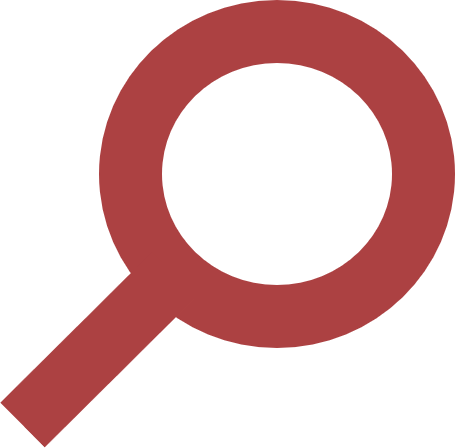
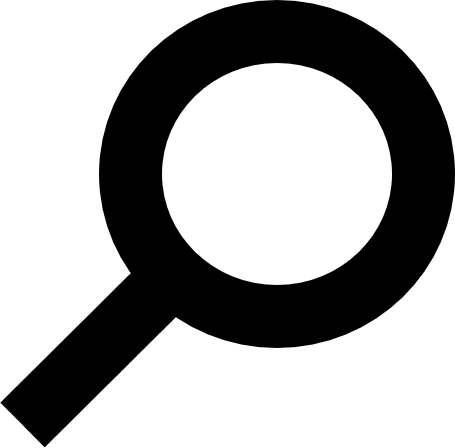
Update

diff --git a/_scss/_config.scss b/_scss/_config.scss
@@ -1,4 +1,4 @@
-/* Colors 
+/* Colors
  * Based on colors from Base16: http://chriskempson.github.io/base16/#default.
  */
 $red:      #ac4142;
@@ -15,7 +15,7 @@ $white:      #fff;
 $lightgrey:  #eee;
 $black:      #000;
 
-$theme-color: $red;
+$theme-color: $default;
 $theme-color-dark: darken($theme-color, 10%);
 
 $post-date-color: #9a9a9a;
